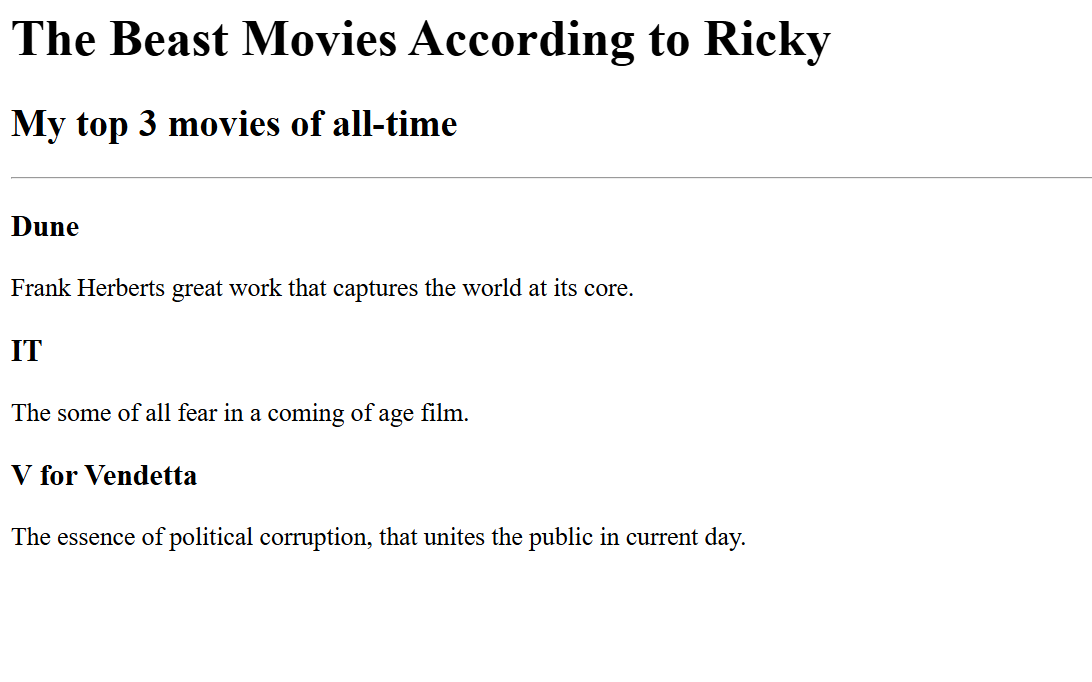
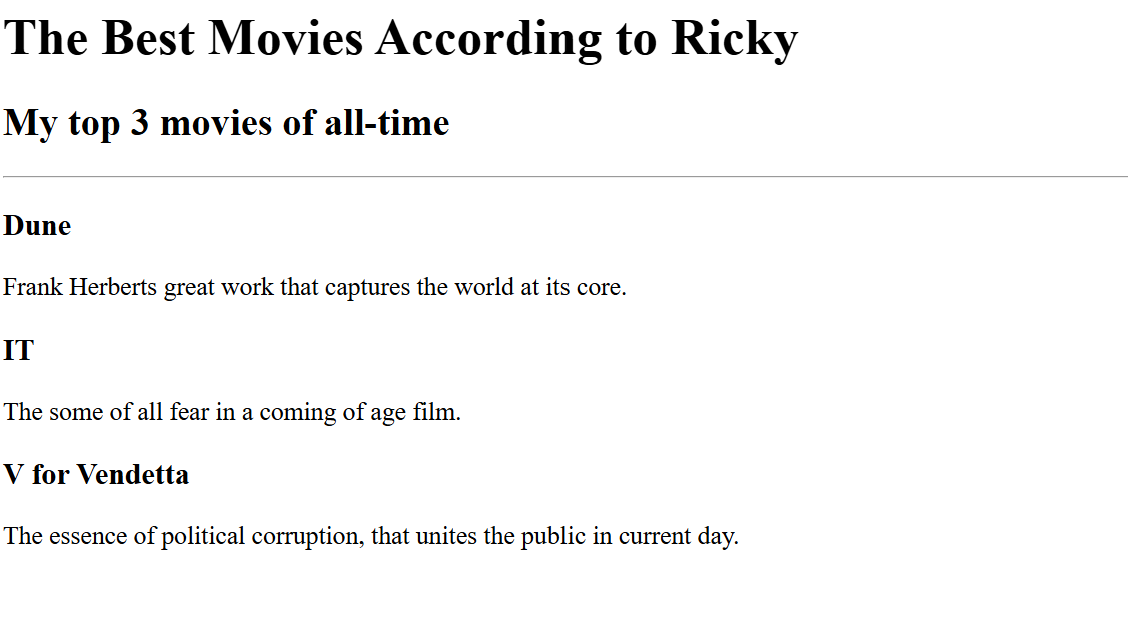
Add files via upload

Changed region(s): [[0.0, 0.3025, 0.685, 0.8774], [0.0, 0.0303, 0.7784, 0.121], [0.0, 0.1513, 0.4359, 0.242]]

diff --git a/public/movie-ranking.html b/public/movie-ranking.html
@@ -1,4 +1,4 @@
-<h1>The Beast Movies According to Ricky</h1>
+<h1>The Best Movies According to Ricky</h1>
 <h2>My top 3 movies of all-time</h2>
 <hr />
 
